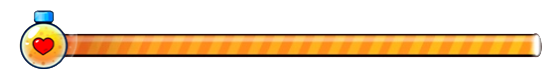
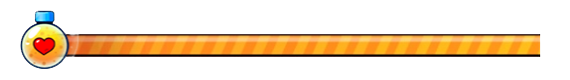
체력 자동으로 줄어들고 수동으로 늘리기 업데이트

diff --git a/src/physical/Physical.java b/src/physical/Physical.java
@@ -1,11 +1,9 @@
 package physical;
 
-import java.awt.Component;
 import java.util.ArrayList;
 import java.util.List;
 
 import javax.swing.ImageIcon;
-import javax.swing.JFrame;
 import javax.swing.JLabel;
 import javax.swing.JLayeredPane;
 
@@ -13,12 +11,16 @@ public class Physical extends JLayeredPane implements Runnable {
 	private ImageIcon lifeBar_image;
 	private ImageIcon lifeMinus_image;
 	private int life;
+	private int cnt;
+	private List<JLabel> lifeList;
+	private JLabel lifeMinus;
 
 	public Physical() {
 		setLayout(null);
-		Thread thread = new Thread(this);
-		thread.start();
+		lifeList = new ArrayList<>();
 		life = 515;
+		cnt = 0;
+		
 		lifeMinus_image = new ImageIcon(".\\img\\lifebar\\lifeMinus.png");
 		lifeBar_image = new ImageIcon(".\\img\\lifebar\\lifeBar.png");
 		
@@ -29,6 +31,9 @@ public class Physical extends JLayeredPane implements Runnable {
 		lifebar.setIcon(lifeBar_image);
 		add(lifebar, new Integer(0));
 		setSize(560, 80);
+		Thread thread = new Thread(this);
+		thread.start();
+		
 	}
 	
 	public int getLife() {
@@ -39,44 +44,39 @@ public class Physical extends JLayeredPane implements Runnable {
 		this.life = life;
 	}
 	
-//	public static void main(String[] args) {
-//		JFrame frame = new JFrame();
-//		Physical physical = new Physical();
-//		physical.setBounds(60, 60, 560, 80);
-//		
-//		frame.getContentPane().setLayout(null);
-//		frame.getContentPane().add(physical);
-//		frame.setSize(1000, 700);
-//		frame.setDefaultCloseOperation(JFrame.EXIT_ON_CLOSE);
-//		frame.setVisible(true);
-//	}
-	
 	private void lifeMinus(int x) {
-		JLabel lifeMinus = new JLabel();
-		lifeMinus.setBounds(x, 34, 25, 21);
-		lifeMinus.setSize(25, 21);
-		lifeMinus.setIcon(lifeMinus_image);
-		add(lifeMinus, new Integer(1));
+		if (!(x <= 40)) {
+			lifeMinus = new JLabel();
+			lifeMinus.setBounds(x, 34, 25, 21);
+			lifeMinus.setSize(25, 21);
+			lifeMinus.setIcon(lifeMinus_image);
+			lifeList.add(lifeMinus);
+			add(lifeList.get(cnt), new Integer(1));
+			cnt++;
+			life -= 25;
+		}
 	}
 	
-//	private void lifePlus(int x) {
-//		JLabel lifeMinus = new JLabel();
-//		lifeMinus.setBounds(x, 34, 25, 21);
-//		lifeMinus.setSize(25, 21);
-//		lifeMinus.setIcon(lifeMinus_image);
-//		add(lifeMinus, new Integer(1));
-//	}
+	public void lifePlus() {
+		if (!(cnt <= 0)) {
+			cnt--;
+			lifeList.get(cnt).remove(lifeMinus);
+			add(lifeList.get(cnt), new Integer(1));
+			lifeList.remove(cnt);
+			life += 25;
+		}
+	}
 
 	@Override
 	public void run() {
 		try {
-			while (life >= 65) {
+			while (life >= 40) {
 				Thread.sleep(1000);
 				lifeMinus(life);
-				life -= 25;
 			}
 		} catch (InterruptedException e) {
 			e.printStackTrace();
 		}
 	}
+	
 }

diff --git a/src/panel/PlayPanel.java b/src/panel/PlayPanel.java
@@ -32,9 +32,22 @@ public class PlayPanel extends JPanel {
 	Component field;
 	
 	static int black = new Color(0, 0, 0).getRGB();
+	private Physical physical;
 	
 	public PlayPanel(MainFrame frame) {
 		field = new Field();
+		JButton lifeUp = new JButton("Up");
+		lifeUp.setBounds(0, 300, 100, 100);
+		lifeUp.addActionListener(new ActionListener() {
+			@Override
+			public void actionPerformed(ActionEvent e) {
+				physical.lifePlus();
+				System.out.println("체력 늘리기");
+				System.out.println("x 좌표 : " + physical.getLife());
+			}
+		});
+		background.add(lifeUp);
+		
 		setPreferredSize(new Dimension(1000, 700));
 		setMaximumSize(new Dimension(1000, 700));
 		setLayout(null);
@@ -49,7 +62,7 @@ public class PlayPanel extends JPanel {
 		scorePanel.setBounds(700, 0, 300, 100);
 		scorePanel.setBackground(new Color(0, 0, 0, 0));
 		background.add(scorePanel);
-		Physical physical = new Physical();
+		physical = new Physical();
 		physical.setBounds(0, 0, 560, 80);
 		background.add(physical);
 		add(background);
@@ -81,8 +94,8 @@ public class PlayPanel extends JPanel {
 		for (int w = 0; w < width; w++) {
 			for (int h = 0; h < height; h++) {
 				if (image.getRGB(w, h) == black) {
-					System.out.println("w" + w);
-					System.out.println("h" + h);
+//					System.out.println("w" + w);
+//					System.out.println("h" + h);
 					Field field = new Field();
 					field.setBounds(w * 17, h * 25, 100, 100);
 					background.add(field);
